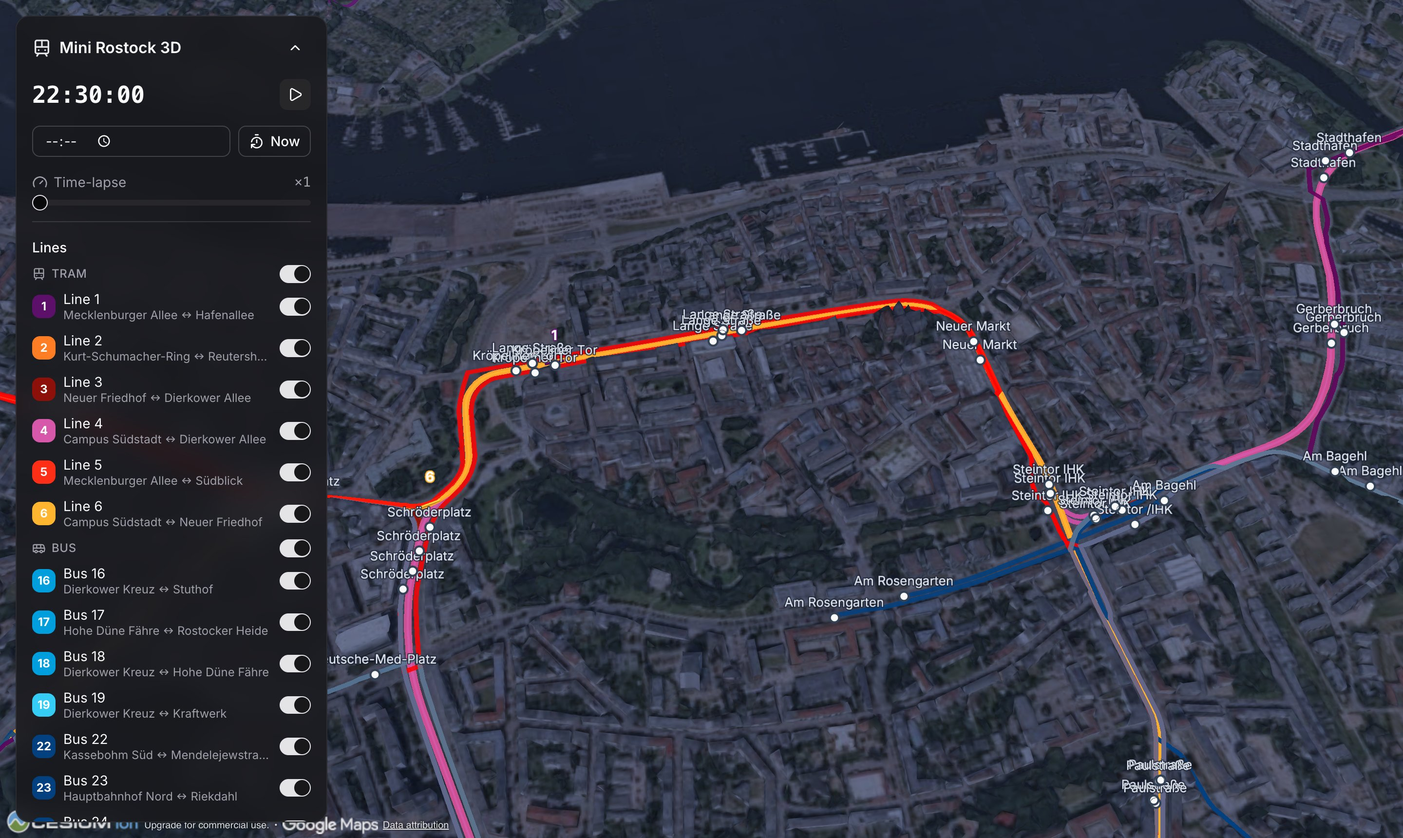
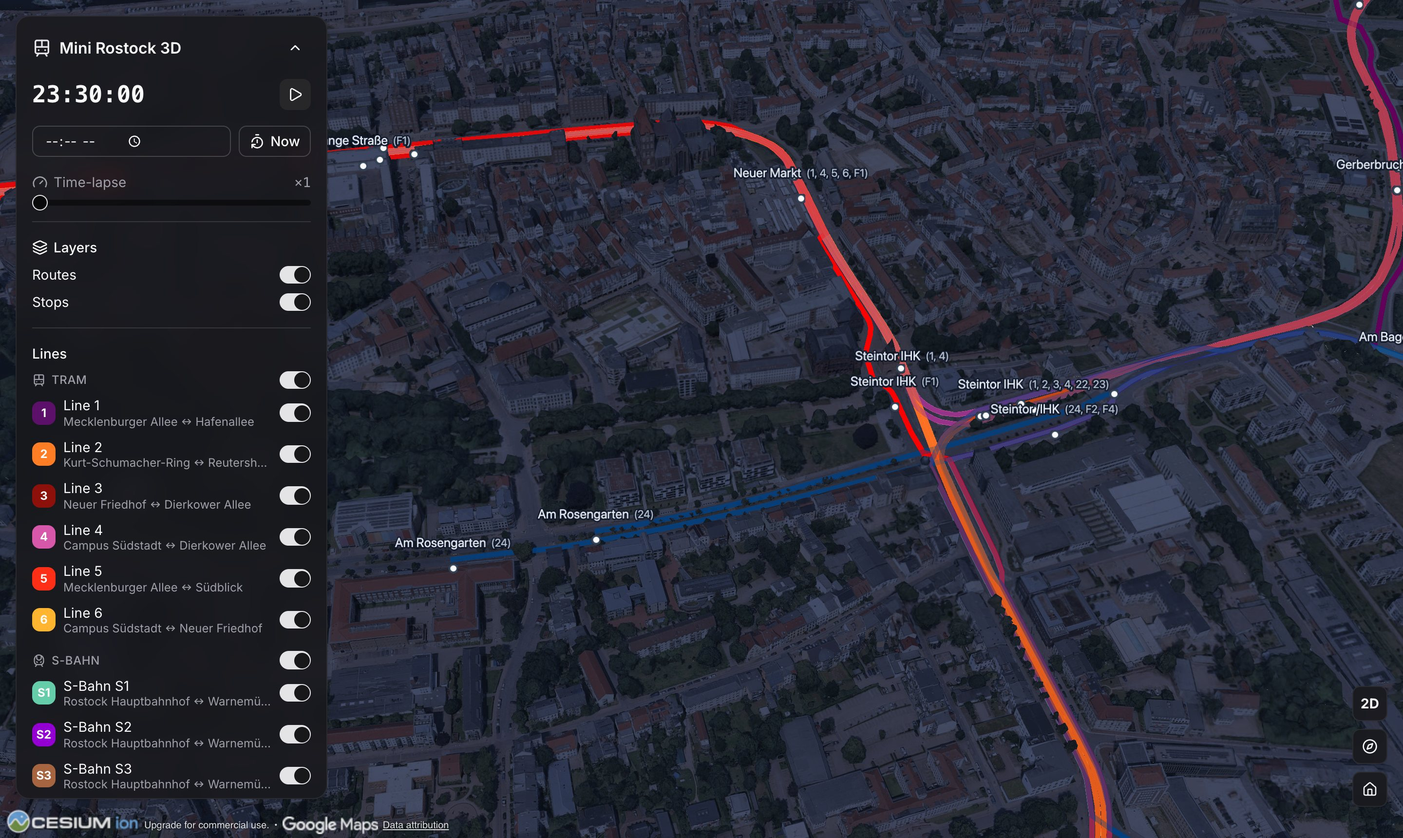
README catches up with the app, fresh Google 3D Tiles screenshots
The intro now says public transport network instead of tram network, and
the outdated passages are rewritten: chase-cam follow mode, event-driven
URL sharing incl. #vehicle links and layer/pause state, stops layer with
serving-line labels and decluttering, route pulse on line zoom, night
cabin glow, 20% tunnel opacity, picker-only time field, map control
buttons, VehicleCard in the architecture tree, mode-specific cruise
speeds, and the unnamed-stop resolution in the data pipeline. Both
screenshots are retaken on the live Google 3D Tiles (day and night at
the same pose, showing the current UI).

diff --git a/README.md b/README.md
@@ -1,6 +1,6 @@
 # 🚋 Mini Rostock 3D
 
-**Rostock's tram network, live on a photorealistic 3D map** – inspired by
+**Rostock's public transport network, live on a photorealistic 3D map** – inspired by
 [mini-tokyo-3d](https://github.com/nagix/mini-tokyo-3d), built with
 [CesiumJS](https://cesium.com/platform/cesiumjs/) and
 [Google Photorealistic 3D Tiles](https://cesium.com/learn/cesiumjs-learn/cesiumjs-photorealistic-3d-tiles/).
@@ -8,8 +8,10 @@
 The six RSAG tram lines, some 25 RSAG bus lines, the three S-Bahn lines on the
 Warnemünde–Rostock Hbf corridor, and the two Rostock ferries run schedule-based
 along their real routes through the city – with time-lapse, line filters, a
-stops layer, day/night lighting that follows the simulated time, and a UI
-styled after [shadcn/ui](https://ui.shadcn.com/).
+stops layer, a chase camera that follows vehicles, shareable view and vehicle
+links, day/night lighting that follows the simulated time (including a
+night-time cabin glow under the vehicles), and a UI styled after
+[shadcn/ui](https://ui.shadcn.com/).
 
 ![Morning rush hour over the city center](docs/screenshots/city-day.jpg)
 
@@ -23,8 +25,10 @@ styled after [shadcn/ui](https://ui.shadcn.com/).
 |---------|---------|
 | Cesium map with Google 3D Tiles | `createGooglePhotorealistic3DTileset` via Cesium ion, falls back to a wireframe globe when unreachable (the tests run on that offline mode, `?offline=1`) |
 | Vehicles as simple boxes on real routes | 3D boxes with line labels and per-mode dimensions (tram 32 m, S-Bahn 57 m Talent 2, bus 12 m, ferries their real vessel sizes), schedule-based simulation (see [Data](#data--gtfs--gtfs-realtime--osm)) |
-| Routes/lines on the map | Polylines draped onto the ground/3D tiles in line colors + stops layer; tunnel sections at reduced opacity |
-| Day/night lighting | Sun-elevation-based grading of the photo tiles plus a dynamic sky (stars at night), driven by the simulated clock |
+| Routes/lines on the map | Polylines at absolute terrain heights in line colors; zooming to a line pulses its route while all other lines briefly step aside; tunnel sections at reduced opacity |
+| Stops layer | One disc + name plate per stop position, the serving lines in parentheses ("Kröpeliner Tor (1, 4, 5, 6)"), screen-space label decluttering (nearest wins), stops disappear with their lines |
+| Day/night lighting | Sun-elevation-based grading of the photo tiles plus a dynamic sky (stars at night), driven by the simulated clock – at night every vehicle casts a warm cabin-light pool onto the road |
+| Follow & camera | Follow mode flies in behind the vehicle and chases it facing the direction of travel until you rotate (zooming keeps the chase); 2D/3D, face-north, and camera-reset buttons sit at the lower right |
 | Live delays | GTFS-Realtime TripUpdates overlaid on the schedule simulation (see [GTFS-Realtime](#gtfs-realtime-implemented-filtered-server-side)) |
 | shadcn(-style) interface | Tailwind v4 + Radix primitives, shadcn component styling (Card, Button, Badge, Switch, Slider) |
 | Automated tests | Unit tests (Vitest) and functional E2E tests (Playwright), fully offline and deterministic |
@@ -51,19 +55,28 @@ VITE_CESIUM_ION_TOKEN=your-token
 
 ### Usage
 
-- **Simulation time:** The panel lets you set the clock directly (e.g. jump to rush
-  hour); "Now" restores the real time. Time-lapse 1–120× and pause work at any time.
+- **Simulation time:** The panel's time field opens the native picker (e.g. jump to
+  rush hour); "Now" restores the real time. Time-lapse 1–120× and pause work at any
+  time, and the collapsed panel keeps showing the clock and the pause button.
   The scene lighting follows the simulated clock, so the time input doubles as a
   day/night switch – and the ×120 time-lapse shows a full day/night cycle.
 - **Zoom to a line:** Clicking a line's name in the panel flies the camera so the
-  whole route fits into view (the compass heading is kept).
-- **Selecting a tram:** Clicking a box opens the info card (line, destination, next
-  stop). "Follow" pins the camera to the vehicle and rides along – orbiting/zooming
-  with the mouse remains possible; clicking empty map, "Stop following", or a camera
-  reset ends the follow mode.
-- **Camera sharing:** The camera pose is saved to the URL hash every 1.5 s
-  (`#lat=…&lon=…&height=…&heading=…&pitch=…`) and restored on load – views survive
-  a reload and can be shared as a link.
+  whole route fits into view (the compass heading is kept); the route pulses for
+  three seconds while every other line fades out. Clicking a hidden line switches
+  it back on first.
+- **Selecting a vehicle:** Clicking a box opens the info card (line, destination,
+  next stop) at the top right. "Follow" flies the camera in behind the vehicle and
+  chases it facing the direction of travel; rotating the camera hands control back
+  to free orbit (zooming keeps the chase). Clicking empty map, "Stop following", or
+  a camera reset ends the follow mode.
+- **Map controls:** 2D/3D pitch toggle, face north, and camera reset sit at the
+  lower right edge of the map.
+- **Sharing links:** The URL hash always mirrors the current view, written
+  event-driven when the camera settles (no polling). Without a selection it carries
+  the camera pose; while a vehicle is selected it is just `#vehicle=<trip-id>` –
+  opening such a link re-selects the vehicle and starts following it. The
+  Routes/Stops layer toggles and the pause state ride along as `routes=0`,
+  `stops=0`, `paused=1` whenever they deviate from the defaults.
 
 ### Useful URL parameters
 
@@ -75,6 +88,8 @@ VITE_CESIUM_ION_TOKEN=your-token
 | `?paused=1` | Start with the simulation frozen |
 | `?rt=1` / `?rt=0` | Force GTFS-Realtime on/off (default: on, except in offline mode) |
 | `#lat=…&lon=…&height=…` | Saved camera pose (maintained automatically) |
+| `#vehicle=…` | Shared vehicle selection – opens with the vehicle selected and followed |
+| `…&routes=0&stops=0&paused=1` | Layer toggles and pause state (only present when off/paused) |
 
 ## Tests
 
@@ -116,8 +131,8 @@ in CI (GitHub Actions), see `.github/workflows/ci.yml`.
   tunnel ranges from the OSM tags of each route's member ways (`tunnel=*`,
   `location=underground`, or a negative `layer` – e.g. the tram tunnel under
   Rostock Hauptbahnhof) and stores them as meter ranges (`tunnels`) in
-  `network.json`. The map renders those route sections at **40 % opacity**,
-  and while a vehicle travels through one, its 3D box and label fade to 40 %
+  `network.json`. The map renders those route sections at **20 % opacity**,
+  and while a vehicle travels through one, its 3D box and label fade to 20 %
   as well; the info card of a selected vehicle then shows "in tunnel".
 - **Timetable:** `src/data/schedule.json` contains real GTFS departure times per
   line/direction (typical weekday). Lines/directions without GTFS data stay off
@@ -143,6 +158,9 @@ npm test               # validates the new datasets
   tram, S-Bahn (truncated at Rostock Hbf), RSAG bus, and the two ferries
   (© OpenStreetMap contributors, [ODbL](https://www.openstreetmap.org/copyright)),
   including tunnel and bridge sections as meter ranges along each path.
+  Stop-position nodes without a `name` tag are resolved via their OSM
+  `stop_area` relation, then via the nearest named stop within 60 m; only
+  after that does the "Stop" placeholder remain.
 - `data:heights` samples the official digital terrain model of
   Mecklenburg-Vorpommern (open WCS at geodaten-mv.de, © GeoBasis-DE/M-V,
   5 m grid) at every route vertex and stop. Bridge sections get a straight
@@ -182,7 +200,7 @@ The app connects to the **free GTFS-Realtime feed from gtfs.de**
 (`https://realtime.gtfs.de/realtime-free.pb`, DELFI-based):
 
 - The feed provides **TripUpdates (delays)** – not vehicle positions. The app
-  overlays them on the schedule simulation: a tram running +3 min is drawn where it
+  overlays them on the schedule simulation: a vehicle running +3 min is drawn where it
   would have been on schedule 3 minutes ago. The panel badge "GTFS-RT · n live"
   shows the number of currently matched trips, and a vehicle's info card shows
   its delay.
@@ -261,10 +279,11 @@ src/
 │   ├── camera-hash.ts      # Camera pose ↔ URL hash
 │   ├── realtime.ts         # GTFS-RT client (polls /api/realtime)
 │   └── rt-extract.ts       # Shared realtime feed → delay-map extraction
-├── engine/simulation.ts    # Clock + timetable → tram snapshots per frame
+├── engine/simulation.ts    # Clock + timetable → vehicle snapshots per frame
 ├── map/CesiumMap.ts        # Viewer, Google 3D Tiles, routes, stops, vehicle boxes,
-│                           # day/night lighting, event-driven render requests
-├── components/             # shadcn-style UI (ControlPanel, TramCard, ui/*)
+│                           # follow/chase cam, day/night lighting + cabin glow,
+│                           # event-driven render requests
+├── components/             # shadcn-style UI (ControlPanel, VehicleCard, ui/*)
 └── App.tsx                 # Wiring, render loop pacing, test API (window.__mrt)
 
 scripts/
@@ -282,7 +301,8 @@ span and start/end mid-route); lines without GTFS data do not run. Only a missin
 schedule.json activates the synthetic headway for the whole network, whose return
 direction departs offset by half the headway so shuttle
 services like the Warnow ferries run as the single vessel they are. The travel time
-between two stops follows from the real track distance (~30 km/h + 25 s dwell time). Every frame, the distance along the route is
+between two stops follows from the real track distance with mode-specific cruise
+speeds (tram ~30, S-Bahn ~40, bus ~25 km/h, ferries ~6 kn) plus 25 s dwell time. Every frame, the distance along the route is
 interpolated for each active trip and translated into a position + travel direction
 (heading of the 3D box). Vehicles and stops do not use Cesium's `HeightReference`
 clamping (unreliable on 3D tiles); their height is set explicitly from tile heights
@@ -293,7 +313,8 @@ overview would keep floating several meters above the roofs up close.
 ## Roadmap
 
 - GTFS-RT with VehiclePositions (full gtfs.de or VVW feed) instead of TripUpdates only
-- More detailed vehicles (low-poly 6N2 instead of boxes), acceleration/braking profiles
+- More detailed vehicles (low-poly models instead of boxes – prototyped on the
+  `low-poly-vehicle-models` branch), acceleration/braking profiles
 - Stop popups with departure boards
 
 ## Attribution
